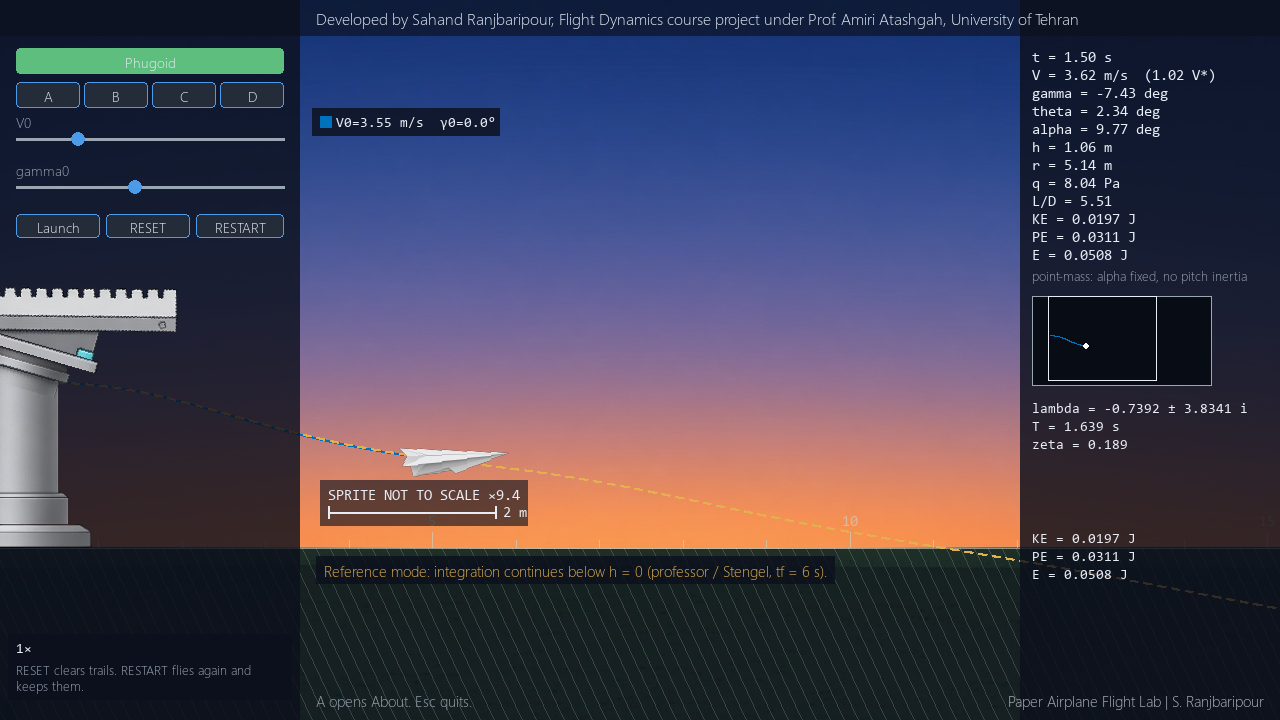
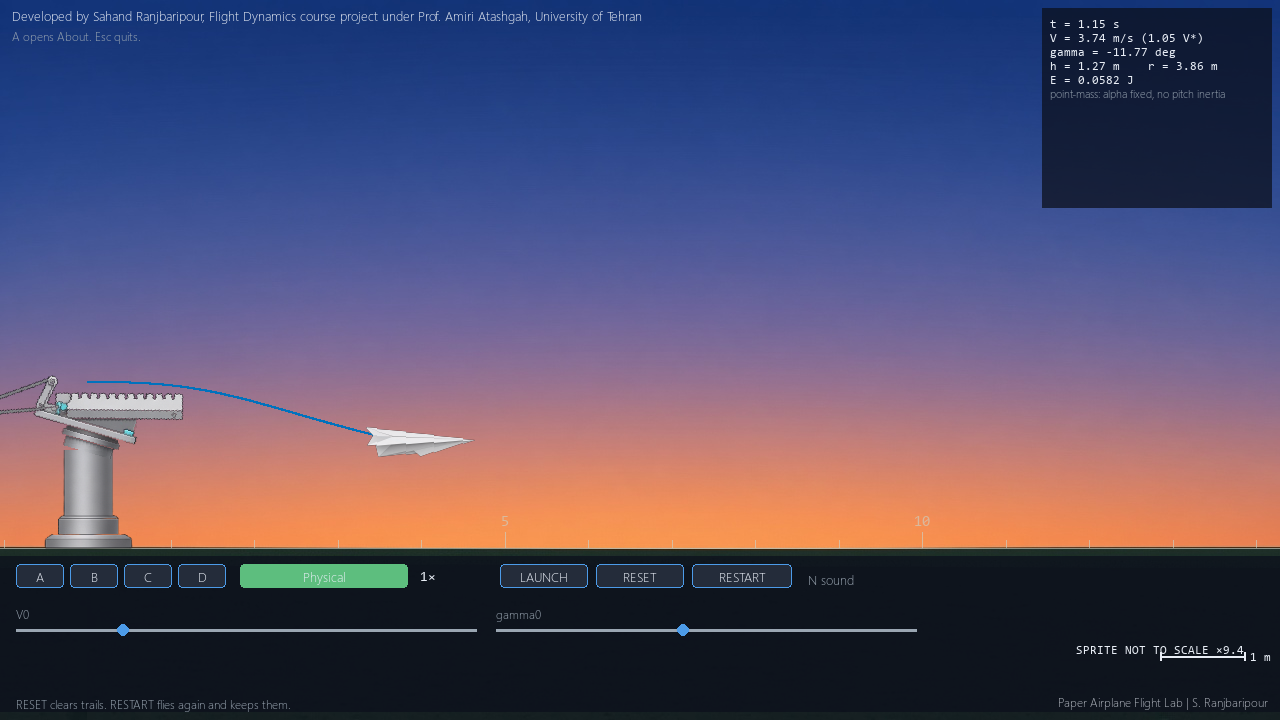
docs: replace the README figure with the current window

diff --git a/src/paper_airplane/app/dock.py b/src/paper_airplane/app/dock.py
@@ -125,7 +125,7 @@ def draw_dock(
     _draw_presets(screen, config.ground_screen_y0)
     _draw_modes(screen, inputs, config.ground_screen_y0)
     screen.blit(number_font(14).render(f"{speed:g}×", True, TEXT), (420, top + 12))
-    sound_label = "N muted" if sound_muted else "N ♪"
+    sound_label = "N muted" if sound_muted else "N sound"
     screen.blit(label_font(13).render(sound_label, True, DIM), (808, top + 14))
     _button(screen, _track("launch", config.ground_screen_y0), "LAUNCH", False, ACCENT)
     _button(screen, _track("reset", config.ground_screen_y0), "RESET", False, ACCENT)

diff --git a/README.md b/README.md
@@ -2,7 +2,7 @@
 
 Developed by Sahand Ranjbaripour, Flight Dynamics course project under Prof. Amiri Atashgah, University of Tehran
 
-A 2D, side-view engineering lab for the point-mass paper airplane in Robert F. Stengel, *Flight Dynamics* (2005), Example 1.3-1. It reproduces the professor's four cases and is meant to show equilibrium glide, the phugoid, and why a fast throw loops. It is not a game: there is no score, crash, or sound.
+A 2D, side-view engineering lab for the point-mass paper airplane in Robert F. Stengel, *Flight Dynamics* (2005), Example 1.3-1. It reproduces the professor's four cases and is meant to show equilibrium glide, the phugoid, and why a fast throw loops. It is not a game: there is no score or crash. Airflow loudness follows true airspeed.
 
 ![Flight lab window](docs/images/flight_lab.png)
 
